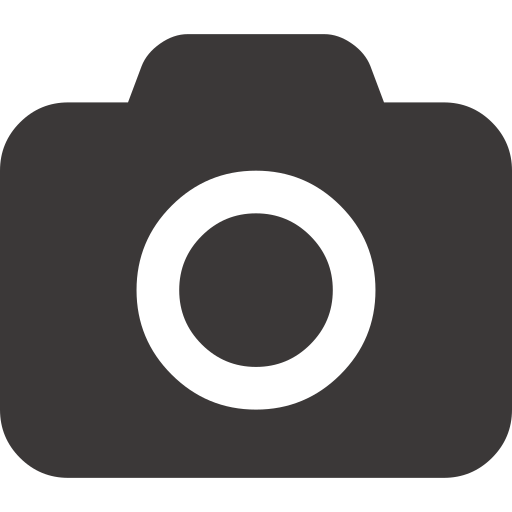
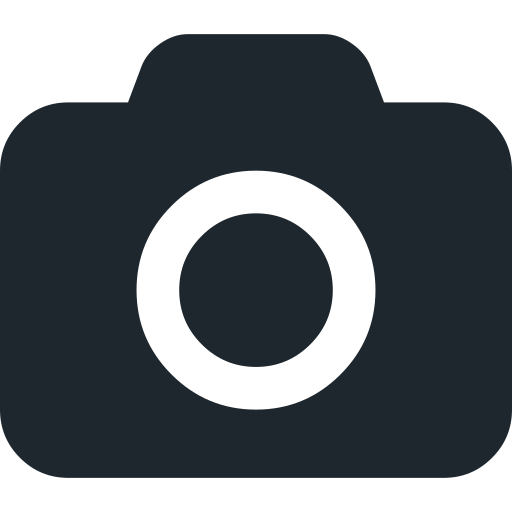
camagru

diff --git a/public/profile.css b/public/profile.css
@@ -124,7 +124,7 @@ a{
 }
 
 .first{
-    color: rgba(59, 56, 56, 1);
+    color: #1e272e;
     padding-top: 20px;
 }
 
@@ -134,7 +134,7 @@ a{
 }
 
 .other{
-    color: rgba(59, 56, 56, 1);
+    color: #1e272e;
     margin-top: 20px;
 }
 
@@ -204,12 +204,12 @@ h1{
 .label{
     font-family: -apple-system, BlinkMacSystemFont, 'Segoe UI', Roboto, Oxygen, Ubuntu, Cantarell, 'Open Sans', 'Helvetica Neue', sans-serif;
     color: rgb(142,142,142);
-    font-size: 18px;
+    font-size: 16px;
     margin: 0px;
 }
 
 #line1{
-    margin-top: 75px;
+    margin-top: 65px;
     margin-left: 70px;
     margin-right: 90px;
     padding-bottom: 10px;
@@ -241,7 +241,7 @@ h1{
 #lastname{
     font-family: -apple-system, BlinkMacSystemFont, 'Segoe UI', Roboto, Oxygen, Ubuntu, Cantarell, 'Open Sans', 'Helvetica Neue', sans-serif;
     color: #1e272e;
-    font-size: 16px;
+    font-size: 17px;
     font-weight: bold;
     margin-top: 2px;
     margin-left: 210px;
@@ -250,34 +250,34 @@ h1{
 #firstname{
     font-family: -apple-system, BlinkMacSystemFont, 'Segoe UI', Roboto, Oxygen, Ubuntu, Cantarell, 'Open Sans', 'Helvetica Neue', sans-serif;
     color: #1e272e;
-    font-size: 16px;
+    font-size: 17px;
     font-weight: bold;
     margin-top: 2px;
-    margin-left: 185px;
+    margin-left: 189px;
 }
 
 #pseudo{
     font-family: -apple-system, BlinkMacSystemFont, 'Segoe UI', Roboto, Oxygen, Ubuntu, Cantarell, 'Open Sans', 'Helvetica Neue', sans-serif;
     color: #1e272e;
-    font-size: 16px;
+    font-size: 17px;
     font-weight: bold;
     margin-top: 2px;
-    margin-left: 110px;
+    margin-left: 121px;
 }
 
 #email{
     font-family: -apple-system, BlinkMacSystemFont, 'Segoe UI', Roboto, Oxygen, Ubuntu, Cantarell, 'Open Sans', 'Helvetica Neue', sans-serif;
     color: #1e272e;
-    font-size: 16px;
+    font-size: 17px;
     font-weight: bold;
     margin-top: 2px;
-    margin-left: 197px;
+    margin-left: 199px;
 }
 
 #radio1{
     width: 15px;
     height: 15px;
-    margin-left: 17px;
+    margin-left: 38px;
 }
 
 #radio2{
@@ -298,7 +298,7 @@ h1{
 }
 
 #butt{
-    margin-top: 55px;
+    margin-top: 45px;
     text-align: center;
     display: flex;
     flex-direction: row;
@@ -507,7 +507,7 @@ footer{
     
     .labelRadio
     {
-        font-size: 14px;
+        font-size: 13px;
     }
     
     #radio1
@@ -545,7 +545,16 @@ footer{
         height: 46px;
         margin-left: 120px;
         margin-top: -35px;
+        margin-bottom: 0px;
+    }
+
+    #marginA1{
         margin-bottom: 12px;
+        width: 0px;
+    }
+
+    #marginA2{
+        width: 0px;
     }
     
     #buttTwo1
@@ -789,12 +798,21 @@ footer{
         width: 203px;
         height: 35px;
         margin-left: 77px;
-        margin-bottom: 13px;
+        margin-bottom: 0px;
     }
 
     #buttOne2
     {
         font-size: 11px;
+    }
+
+    #marginA1{
+        margin-bottom: 13px;
+        width: 0px;
+    }
+
+    #marginA2{
+        width: 0px;
     }
 
     #settings

diff --git a/view/profile.html b/view/profile.html
@@ -42,15 +42,15 @@
                 <p id="expl">Informations d'utilisateur de votre compte Camagru</p>
                 <div id="line1">
                     <p class="label">Nom</p>
-                    <p id="lastname">Lastname-01234567890123456789</p>
+                    <p id="lastname">El Maliki</p>
                 </div>                    
                 <div class="lineOther">
                     <p class="label">Prénom</p>
-                    <p id="firstname">Firstname-01234567890123456789</p>
+                    <p id="firstname">Anass</p>
                 </div>
                 <div class="lineOther">
                     <p class="label">Nom d'utilisateur</p>                
-                    <p id="pseudo">Username-934000</p>
+                    <p id="pseudo">User-93400</p>
                 </div>
                 <div class="lineOther">
                     <p class="label">E-mail</p>                
@@ -66,13 +66,13 @@
                     </div>
                 </div>
                 <div id="butt">
-                    <a href="/camagru/view/change_password.html">
+                    <a href="/camagru/view/change_password.html" id="marginA1">
                         <div id="buttOne1">
                             <img id="lock" src="/camagru/public/pictures/lock.png">
                             <p id="buttOne2">Modifier mon mot de passe</p>
                         </div>
                     </a>
-                    <a href="/camagru/view/change_info.html">
+                    <a href="/camagru/view/change_info.html" id="marginA2">
                         <div id="buttTwo1">
                             <img id="settings" src="/camagru/public/pictures/settings.png">
                             <p id="buttTwo2">Modifier mes infos personelles</p>

diff --git a/public/change_password.css b/public/change_password.css
@@ -125,12 +125,12 @@ a{
 }
 
 .first{
-    color: rgba(59, 56, 56, 1);
+    color: #1e272e;
     padding-top: 20px;
 }
 
 .other{
-    color: rgba(59, 56, 56, 1);
+    color: #1e272e;
     margin-top: 20px;
 }
 
@@ -181,7 +181,7 @@ section{
 h1{
     text-align: center;
     font-family: -apple-system, BlinkMacSystemFont, 'Segoe UI', Roboto, Oxygen, Ubuntu, Cantarell, 'Open Sans', 'Helvetica Neue', sans-serif;
-    color: rgba(59, 56, 56, 1);
+    color: #1e272e;
     font-weight: bold;
     font-size: 22px;
     margin-top: 35px;
@@ -195,7 +195,7 @@ label{
 }
 
 #thLabel{
-    color: #0a3d62;
+    color: #1e272e;
 }
 
 input{
@@ -335,7 +335,7 @@ footer{
     }
 }
 
-@media all and (max-width: 850px)
+@media all and (max-width: 950px)
 {
     #logo
     {

diff --git a/view/change_password.html b/view/change_password.html
@@ -43,7 +43,7 @@
                     <div id="formBloc">
                         <div id="lineBlocTh">
                             <label for="pseudo" id="thLabel">Mot de passe actuel</label>                
-                            <input type="password" id="firstLine">
+                            <input type="password" id="firstLine" autofocus>
                             <img class="pen" src="/camagru/public/pictures/edit.png" alt="Edit">
                         </div>
                         <div class="lineBlocOth">

diff --git a/public/camera.css b/public/camera.css
@@ -124,7 +124,7 @@ a{
 }
 
 .first{
-    color: rgba(59, 56, 56, 1);
+    color: #1e272e;
     padding-top: 20px;
 }
 
@@ -134,7 +134,7 @@ a{
 }
 
 .other{
-    color: rgba(59, 56, 56, 1);
+    color: #1e272e;
     margin-top: 20px;
 }
 

diff --git a/public/gallery.css b/public/gallery.css
@@ -124,7 +124,7 @@ a{
 }
 
 .first{
-    color: rgba(59, 56, 56, 1);
+    color: #1e272e;
     padding-top: 20px;
 }
 
@@ -134,7 +134,7 @@ a{
 }
 
 .other{
-    color: rgba(59, 56, 56, 1);
+    color: #1e272e;
     margin-top: 20px;
 }
 

diff --git a/public/home.css b/public/home.css
@@ -129,7 +129,7 @@ a{
 }
 
 .other{
-    color: rgba(59, 56, 56, 1);
+    color: #1e272e;
     margin-top: 20px;
 }
 
